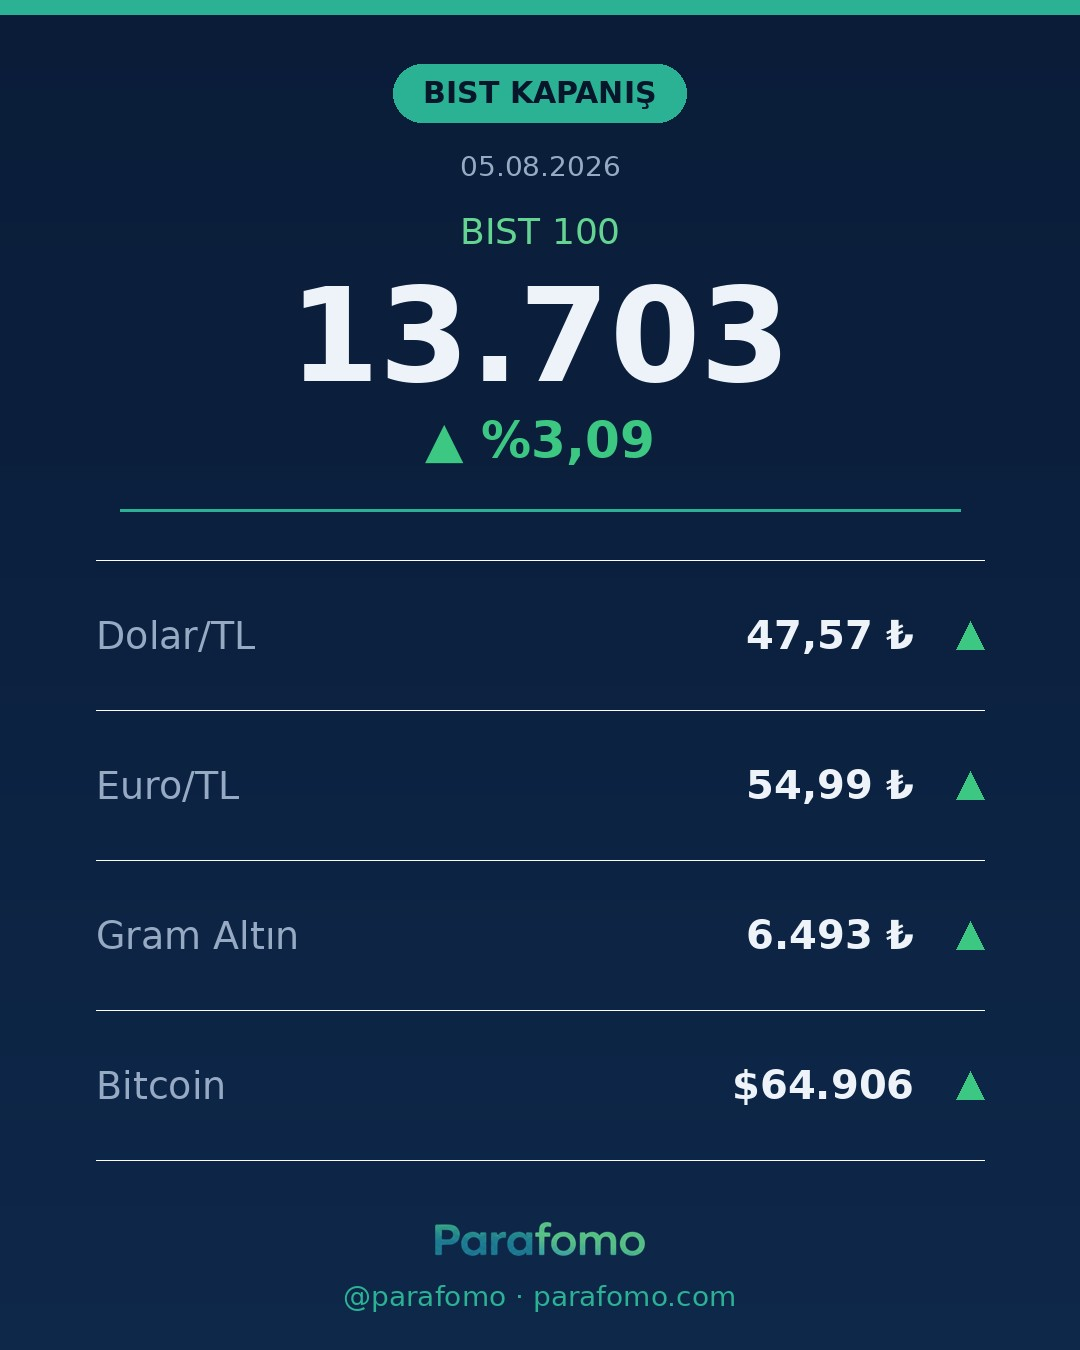
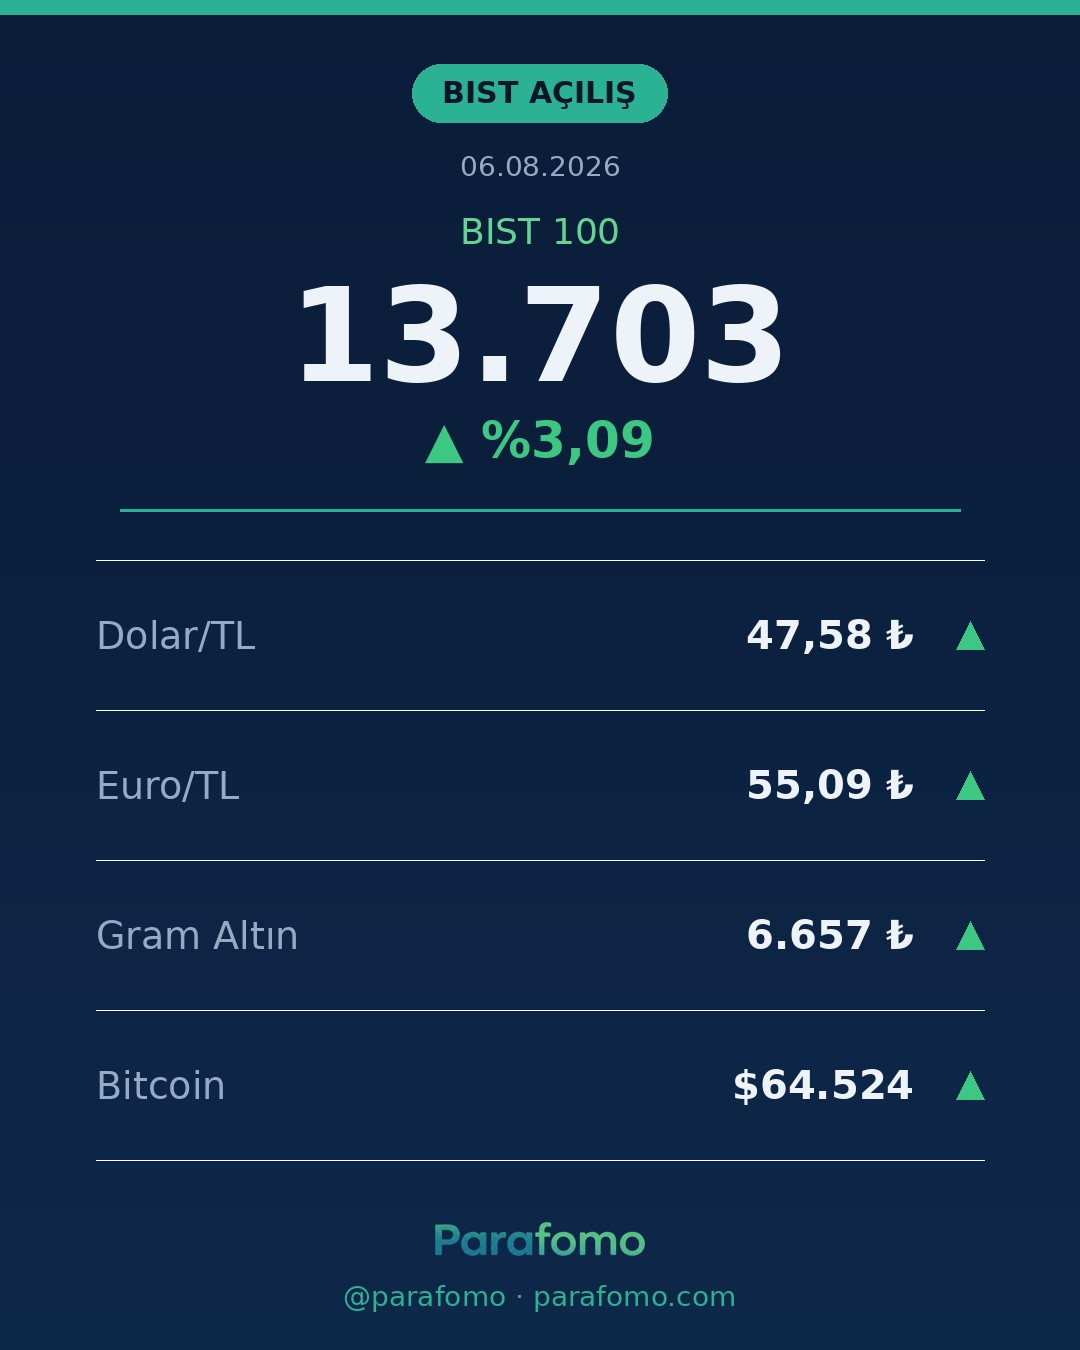
büyüme-ajanı 2026-08-06: Fed iç-link kümesi + count-up motoru + IG konu-hashtag + BIST kart Yahoo fallback
Web: fed-faiz-karari pillar'a fomc/faiz/tcmb/satellite'ten 'Fed faiz kararı' anchor iç-link + reciprocal (deney 2026-08-06-1; #1 GSC fırsatı poz 22).
YouTube: scripts/countup-overlay.py — backtest_return payoff için animasyonlu sayaç (test+QA ✓, canlıya bağlanacak).
IG: instagram-reel.py konuya-duyarlı hashtag (deney 2026-08-06-2).
Infra: bist-card.py Truncgil non-fatal + Yahoo FX/altın fallback (v3 bozuldu); share-story.sh git_push_retry.
npm run build ✓ (90 sayfa).

diff --git a/scripts/countup-overlay.py b/scripts/countup-overlay.py
@@ -1,0 +1,132 @@
+#!/usr/bin/env python3
+"""
+ParaFOMO — Animasyonlu sayı sayacı (count-up) overlay üreticisi.
+
+Neden: En yüksek skorlu Shorts formatımız `backtest_return` ("10.000 TL koysaydın
+bugün X TL olurdu"). Araştırma (2026): ease-out ile hızlanıp yavaşlayarak HEDEF
+sayıya "inen" animasyonlu sayaç, statik sayıya göre dikkat + hatırlamayı belirgin
+artırıyor ("motion earns the pause"). Vanguard'ın animasyonlu "paran büyüyor"
+zaman serisi → uzun-vade abonelikte +%32. Bu format tam da bu hareketle eşleşiyor.
+
+Ne yapar: start→end arası, Türkçe biçimli (6.657 gibi), ₺/%/x son ekli, marka
+sarısı (#FFE14D) Anton fontuyla, ŞEFFAF arka planlı bir PNG kare dizisi üretir.
+İsteğe bağlı alt etiket (ör. "5 yılda") ve alfa'lı .mov (ffmpeg overlay için).
+
+Kullanım:
+  python3 scripts/countup-overlay.py --start 10000 --end 21000 --suffix " TL" \
+      --label "5 YILDA" --dur 2.5 --out /tmp/countup
+
+Çıktı: <out>/frame_%04d.png (RGBA) + <out>.mov (prores 4444, alfa) varsa ffmpeg.
+Token harcamaz; ffmpeg/PIL. shorts-build-v4 payoff sahnesine overlay olarak takılır.
+"""
+import os
+import sys
+import shutil
+import argparse
+import subprocess
+from PIL import Image, ImageDraw, ImageFont
+
+ROOT = os.path.dirname(os.path.dirname(os.path.abspath(__file__)))
+ANTON = os.path.join(ROOT, "assets", "fonts", "Anton-Regular.ttf")
+OSWALD = os.path.join(ROOT, "assets", "fonts", "Oswald.ttf")
+
+W, H = 1080, 1920
+YELLOW = (255, 225, 77, 255)      # #FFE14D — marka aktif-vurgu sarısı
+WHITE = (245, 248, 252, 255)
+SHADOW = (6, 10, 14, 235)
+LABEL_C = (200, 214, 230, 255)
+
+
+def fmt_tr(n, decimals=0):
+    """1234567.8 -> '1.234.568' / '1.234.567,8' (TR binlik '.', ondalık ',')."""
+    s = f"{n:,.{decimals}f}"
+    return s.replace(",", "§").replace(".", ",").replace("§", ".")
+
+
+def ease_out_cubic(t):
+    return 1 - (1 - t) ** 3
+
+
+def font(path, size):
+    try:
+        return ImageFont.truetype(path, size)
+    except Exception:
+        return ImageFont.truetype("/usr/share/fonts/truetype/liberation/LiberationSans-Bold.ttf", size)
+
+
+def draw_centered(draw, cy, text, fnt, fill, cx=W // 2):
+    box = draw.textbbox((0, 0), text, font=fnt)
+    tw, th = box[2] - box[0], box[3] - box[1]
+    x, y = cx - tw / 2 - box[0], cy - th / 2 - box[1]
+    # yumuşak gölge (her B-roll üstünde okunur kalsın)
+    for dx, dy in ((0, 4), (4, 0), (3, 3), (-3, 3)):
+        draw.text((x + dx, y + dy), text, font=fnt, fill=SHADOW)
+    draw.text((x, y), text, font=fnt, fill=fill)
+    return tw
+
+
+def render(args):
+    outdir = args.out.rstrip("/")
+    if os.path.isdir(outdir):
+        shutil.rmtree(outdir)
+    os.makedirs(outdir, exist_ok=True)
+
+    fps = args.fps
+    n_frames = max(2, int(round(args.dur * fps)))
+    hold = int(round(args.hold * fps))          # son değerde bekleme kareleri
+    num_f = font(ANTON, args.size)
+    lab_f = font(OSWALD, max(40, args.size // 4))
+
+    span = args.end - args.start
+    cy = H // 2
+
+    for i in range(n_frames + hold):
+        t = min(1.0, i / max(1, n_frames - 1))
+        val = args.start + span * ease_out_cubic(t)
+        if i >= n_frames:
+            val = args.end
+        img = Image.new("RGBA", (W, H), (0, 0, 0, 0))
+        d = ImageDraw.Draw(img)
+        if args.label:
+            draw_centered(d, cy - args.size // 2 - 30, args.label.upper(), lab_f, LABEL_C)
+        txt = f"{args.prefix}{fmt_tr(val, args.decimals)}{args.suffix}"
+        # hedefe inince sarı vurgu, yolda beyaz — landing "payoff" hissi
+        col = YELLOW if (i >= n_frames - 1) else WHITE
+        draw_centered(d, cy + 20, txt, num_f, col)
+        img.save(f"{outdir}/frame_{i:04d}.png")
+
+    total = n_frames + hold
+    print(f"[countup] {total} kare üretildi → {outdir}/frame_%04d.png "
+          f"({args.start:g}→{args.end:g}{args.suffix}, {fps}fps, ease-out)")
+
+    # Alfa'lı .mov (ffmpeg varsa) — doğrudan overlay-video olarak da kullanılabilir.
+    if shutil.which("ffmpeg"):
+        mov = f"{outdir}.mov"
+        cmd = ["ffmpeg", "-y", "-framerate", str(fps), "-i", f"{outdir}/frame_%04d.png",
+               "-c:v", "prores_ks", "-profile:v", "4444", "-pix_fmt", "yuva444p10le", mov]
+        r = subprocess.run(cmd, capture_output=True, text=True)
+        if r.returncode == 0:
+            print(f"[countup] alfa mov → {mov}")
+        else:
+            print(f"[countup] mov atlandı: {r.stderr.strip().splitlines()[-1] if r.stderr else '?'}")
+    return outdir
+
+
+def main():
+    ap = argparse.ArgumentParser()
+    ap.add_argument("--start", type=float, required=True)
+    ap.add_argument("--end", type=float, required=True)
+    ap.add_argument("--dur", type=float, default=2.2, help="animasyon süresi (sn)")
+    ap.add_argument("--hold", type=float, default=0.6, help="son değerde bekleme (sn)")
+    ap.add_argument("--fps", type=int, default=30)
+    ap.add_argument("--suffix", default="")
+    ap.add_argument("--prefix", default="")
+    ap.add_argument("--decimals", type=int, default=0)
+    ap.add_argument("--label", default="")
+    ap.add_argument("--size", type=int, default=220)
+    ap.add_argument("--out", required=True, help="çıktı klasörü (frame_%04d.png)")
+    render(ap.parse_args())
+
+
+if __name__ == "__main__":
+    main()

diff --git a/scripts/instagram-reel.py b/scripts/instagram-reel.py
@@ -34,10 +34,69 @@ IG_ENV = os.path.expanduser("~/.config/parafomo/instagram.env")
 API = "https://graph.facebook.com/v21.0"
 REPO_RAW = "https://raw.githubusercontent.com/Junkiieee/parafomo/media"
 
-# Türkçe finans erişim etiketleri (IG en fazla 30; keşfet için geniş+niş karışık)
-HASHTAGS = ("#parafomo #finans #para #yatırım #borsa #ekonomi #altın #dolar "
-            "#kriptopara #bitcoin #tasarruf #bist100 #faiz #enflasyon #bes "
-            "#temettü #hisse #finansalözgürlük #paratüyoları #ekonomihaber")
+# Türkçe finans erişim etiketleri. Her gönderiye AYNI blok yerine KONUYA-DUYARLI
+# set: küçük hesap dev hashtag havuzunda sıralanamaz → videonun kendi niş
+# havuzunu hedefle. Ayrıca aynı bloğun tekrarı IG'de otomasyon/spam sinyali.
+CORE_TAGS = ["#parafomo", "#finans", "#para", "#yatırım", "#borsa", "#ekonomi"]
+DISCOVERY_TAGS = ["#paratüyoları", "#ekonomihaber", "#finansalözgürlük"]
+TOPIC_TAGS = {
+    "altın": ["#altın", "#gramaltın", "#altınyatırımı", "#çeyrekaltın"],
+    "dolar": ["#dolar", "#dolartl", "#döviz", "#kur"],
+    "euro": ["#euro", "#döviz", "#eurotl"],
+    "bitcoin": ["#bitcoin", "#kripto", "#kriptopara", "#btc"],
+    "kripto": ["#kripto", "#kriptopara", "#bitcoin"],
+    "ethereum": ["#ethereum", "#kripto", "#altcoin"],
+    "stablecoin": ["#stablecoin", "#kripto", "#usdt"],
+    "nft": ["#nft", "#kripto", "#dijitalvarlık"],
+    "fed": ["#fed", "#faiz", "#dolar", "#abdekonomisi"],
+    "faiz": ["#faiz", "#merkezbankası", "#mevduat"],
+    "tcmb": ["#tcmb", "#faiz", "#merkezbankası"],
+    "merkez banka": ["#merkezbankası", "#faiz", "#parapolitikası"],
+    "enflasyon": ["#enflasyon", "#tüfe", "#zam"],
+    "tüfe": ["#enflasyon", "#tüfe", "#alımgücü"],
+    "tüik": ["#enflasyon", "#tüik", "#tüfe"],
+    "bist": ["#bist100", "#borsaistanbul", "#hisse"],
+    "borsa": ["#borsa", "#bist100", "#hissesenedi"],
+    "hisse": ["#hisse", "#hissesenedi", "#borsa"],
+    "temettü": ["#temettü", "#temettühisseleri", "#pasifgelir"],
+    "etf": ["#etf", "#endeksfonu", "#pasifyatırım"],
+    "endeks fon": ["#endeksfonu", "#etf", "#pasifyatırım"],
+    "fon": ["#yatırımfonu", "#tefas", "#fon"],
+    "eurobond": ["#eurobond", "#dolarfaizi", "#sabitgetiri"],
+    "tahvil": ["#tahvil", "#hazinebonosu", "#sabitgetiri"],
+    "repo": ["#repo", "#kısavade", "#faiz"],
+    "mevduat": ["#mevduat", "#vadelimevduat", "#tasarruf"],
+    "tasarruf": ["#tasarruf", "#parabiriktirme", "#bütçe"],
+    "bütçe": ["#bütçe", "#parayönetimi", "#tasarruf"],
+    "emeklilik": ["#emeklilik", "#bes", "#uzunvade"],
+    "bes": ["#bes", "#bireyselemeklilik", "#emeklilik"],
+    "kredi": ["#kredi", "#borç", "#kredikartı"],
+    "borç": ["#borç", "#borçtankurtulma", "#kredikartı"],
+    "nfp": ["#nfp", "#abdekonomisi", "#ekonomiveri"],
+    "issizlik": ["#işsizlik", "#abdekonomisi", "#nfp"],
+    "portföy": ["#portföy", "#varlıkdağılımı", "#yatırımstratejisi"],
+    "pasif gelir": ["#pasifgelir", "#finansalözgürlük"],
+    "finansal özgür": ["#finansalözgürlük", "#fire", "#pasifgelir"],
+    "bileşik faiz": ["#bileşikfaiz", "#uzunvadeyatırım"],
+    "halka arz": ["#halkaarz", "#ipo", "#borsa"],
+    "döviz": ["#döviz", "#dolar", "#kur"],
+    "konut": ["#konut", "#gayrimenkul", "#emlak"],
+}
+
+
+def build_hashtags(slug="", title="", desc=""):
+    """Videoya özgü niş + marka + keşfet karışımı. Küçük hesap için winnable havuzlar."""
+    text = f"{slug} {title} {desc}".lower().replace("-", " ")
+    tags = list(CORE_TAGS)
+    for kw, tg in TOPIC_TAGS.items():
+        if kw in text:
+            for t in tg:
+                if t not in tags:
+                    tags.append(t)
+    for t in DISCOVERY_TAGS:
+        if t not in tags:
+            tags.append(t)
+    return " ".join(tags[:24])
 
 
 def load_env():
@@ -104,7 +163,7 @@ def build_caption(meta, slug):
            f"📌 Unutmamak için KAYDET · paylaş\n"
            f"🔔 Günlük altın · dolar · borsa · faiz → TAKİP ET @parafomo\n"
            f"📲 Tam rehber (ücretsiz): {site_link(slug)}")
-    cap = f"{hook}\n\n{body}{cta}\n\n{HASHTAGS}"
+    cap = f"{hook}\n\n{body}{cta}\n\n{build_hashtags(slug, title, desc)}"
     return cap[:2100]  # IG caption sınırı 2200
 
 

diff --git a/scripts/bist-card.py b/scripts/bist-card.py
@@ -70,9 +70,28 @@ def _get_json(url, tries=3):
     raise last
 
 
+def _yahoo(symbol):
+    """Yahoo chart → (fiyat, değişim%). None-safe; ağ/JSON hatası → (None, None)."""
+    try:
+        url = f"https://query1.finance.yahoo.com/v8/finance/chart/{symbol}?interval=1d&range=5d"
+        y = json.loads(urllib.request.urlopen(urllib.request.Request(url, headers={"User-Agent": "Mozilla/5.0"}), timeout=20).read())
+        meta = y["chart"]["result"][0]["meta"]
+        price = meta.get("regularMarketPrice")
+        prev = meta.get("chartPreviousClose") or meta.get("previousClose")
+        chg = ((price - prev) / prev * 100) if (price and prev) else None
+        return (price, chg)
+    except Exception:
+        return (None, None)
+
+
 def fetch():
-    # Truncgil v3 (v4 fiyatları boşalttı) — USD/EUR/gram-altın. Arada truncated → retry.
-    tj = _get_json(TG)
+    # Truncgil v3 (v4 fiyatları boşalttı) — USD/EUR/gram-altın. Arada truncated JSON
+    # döndürüyor (retry sonrası bile) → FATAL DEĞİL: boş dict'e düş, FX'i Yahoo'dan doldur.
+    try:
+        tj = _get_json(TG)
+    except Exception as e:
+        print(f"    [kart] Truncgil alınamadı ({type(e).__name__}); Yahoo FX'e düşülüyor", flush=True)
+        tj = {}
 
     def pick(k, p):
         return _num((tj.get(k) or {}).get(p))
@@ -82,16 +101,19 @@ def fetch():
         "eur": (pick("EUR", "Selling"), pick("EUR", "Change")),
         "gold": (pick("gram-altin", "Selling"), pick("gram-altin", "Change")),
     }
+    # Truncgil eksik/boşsa USD & EUR'yu Yahoo FX ile doldur.
+    if data["usd"][0] is None:
+        data["usd"] = _yahoo("USDTRY=X")
+    if data["eur"][0] is None:
+        data["eur"] = _yahoo("EURTRY=X")
+    # Gram altın Truncgil'de yoksa Yahoo'dan türet: ons altın (GC=F, USD) / 31.1035 * USDTRY.
+    if data["gold"][0] is None:
+        ons_usd, ons_chg = _yahoo("GC=F")
+        usdtry = data["usd"][0]
+        if ons_usd and usdtry:
+            data["gold"] = (ons_usd / 31.1035 * usdtry, ons_chg)
     # BIST 100 (XU100) — Truncgil'de YOK → Yahoo Finance.
-    try:
-        y = json.loads(urllib.request.urlopen(urllib.request.Request(YF, headers={"User-Agent": "Mozilla/5.0"}), timeout=20).read())
-        meta = y["chart"]["result"][0]["meta"]
-        price = meta.get("regularMarketPrice")
-        prev = meta.get("chartPreviousClose") or meta.get("previousClose")
-        chg = ((price - prev) / prev * 100) if (price and prev) else None
-        data["bist"] = (price, chg)
-    except Exception:
-        data["bist"] = (None, None)
+    data["bist"] = _yahoo("XU100.IS")
     # Bitcoin (CoinGecko)
     try:
         d = json.loads(urllib.request.urlopen(urllib.request.Request(CG, headers={"User-Agent": "Mozilla/5.0"}), timeout=20).read())

diff --git a/agent/memory/learnings.md b/agent/memory/learnings.md
@@ -9,3 +9,5 @@ Yeni ders: `python3 agent/exp.py learn --channel <k> --text "..."` veya deney ka
 - [2026-08-04][web] "Ekonomik takvim" sayfası (veri vardı, sayfa yoktu) hızlı kazanım oldu → veriyle beslenen, kendi başına trafik çeken HEDEF SAYFALAR yüksek kaldıraç.
 - [2026-08-04][web] GSC'de yüksek gösterim + 0 tıklama + pozisyon 10-30 olan sorgu = en isabetli SEO fırsatı (hedefli sayfa/başlık/iç-link ile ilk sayfaya çek).
 - [2026-08-04][infra] Dış veri kaynakları sessizce bozulabilir (Truncgil v4 fiyatları boşalttı → v3 + Yahoo). Kartlarda/verilerde boşluk görürsen kaynağı doğrula.
+- [2026-08-06][infra] Truncgil v3 today.json artık DA bozuk (truncated JSON, retry sonrası bile crash ediyordu). bist-card.py FX/altını Yahoo'ya fallback yaptı (USDTRY=X, EURTRY=X, GC=F/31.1035*usdtry); Truncgil non-fatal. Ders: tek dış kaynağa fatal bağlanma, her fetch degrade edebilmeli.
+- [2026-08-06][web] İç-link kümesi taktiği: head-term için pillar+satellite ayır, satelliti pillar'a head-anchor'la bağla (cannibalization çözümü), en yüksek learning-skorlu ilgili sayfadan pillar'a link ver (PageRank yoğunlaştırma). Fed kümesinde uygulandı (deney 2026-08-06-1).

diff --git a/src/content/blog/fed-faiz-karari-ne-olur-beklentiler.md b/src/content/blog/fed-faiz-karari-ne-olur-beklentiler.md
@@ -36,7 +36,7 @@ shorts_visuals:
   - "concept|turkish lira dollar exchange rate screen"
 ---
 
-Fed faiz kararının ne olacağını bilmek pek çok yatırımcının hayaline girer. Dolar mı güçlenecek, TL üzerinde baskı mı artacak, borsalar ne tepki verecek? Bunları tam kesinlikle öngörmek mümkün değil; ama piyasanın *beklentisini* okumak ve bu beklentinin neden değiştiğini anlamak hem mümkün hem son derece işe yarar.
+[Fed faiz kararının](/blog/fed-faiz-karari-nedir-etkisi) ne olacağını bilmek pek çok yatırımcının hayaline girer. Dolar mı güçlenecek, TL üzerinde baskı mı artacak, borsalar ne tepki verecek? Bunları tam kesinlikle öngörmek mümkün değil; ama piyasanın *beklentisini* okumak ve bu beklentinin neden değiştiğini anlamak hem mümkün hem son derece işe yarar.
 
 Bu rehberde Fed kararını önceden ölçmenin somut araçlarını ve kritik ekonomik verileri adım adım inceliyoruz.
 

diff --git a/src/content/blog/tcmb-faiz-karari-nasil-etkiler.md b/src/content/blog/tcmb-faiz-karari-nasil-etkiler.md
@@ -99,7 +99,7 @@ TCMB faiz kararının döviz kuruna etkisi teorik olarak belirgin, uygulamada ç
 - Yabancı sermaye çıkışı yaşanabilir.
 - [Döviz kurunun belirlenme mekanizması](/blog/doviz-kuru-nasil-belirlenir) gereği arz-talep dengesi bozulur.
 
-**Kritik uyarı:** Türkiye'de döviz kuru salt faize değil; cari açık, siyasi beklentiler ve küresel risk iştahına da bağlıdır. Teorik faiz-kur ilişkisi güven ortamı bozuksa beklendiği gibi çalışmayabilir.
+**Kritik uyarı:** Türkiye'de döviz kuru salt faize değil; cari açık, siyasi beklentiler ve küresel risk iştahına da bağlıdır. Özellikle [Fed faiz kararı](/blog/fed-faiz-karari-nedir-etkisi) ve ABD'deki faiz ortamı, TL dahil gelişen ülke kurlarını doğrudan etkiler. Teorik faiz-kur ilişkisi güven ortamı bozuksa beklendiği gibi çalışmayabilir.
 
 ## Borsa (BIST) Üzerindeki Etkisi
 

diff --git a/src/content/blog/fed-faiz-karari-nedir-etkisi.md b/src/content/blog/fed-faiz-karari-nedir-etkisi.md
@@ -60,7 +60,7 @@ FOMC kararını vermek için onlarca ekonomik göstergeyi inceler. En çok ağı
 | **Core CPI** | Gıda ve enerji dışı enflasyon | Düşmezse Fed temkinli kalır |
 | **Tüketici Güveni** | Harcama iştahı | Düşükse Fed gevşemek ister |
 
-Fed bu verilerin bütününe bakarak kısa vadeli ekonomik dengeyi kurmaya çalışır: ne aşırı sıcak (enflasyon), ne aşırı soğuk (durgunluk).
+Fed bu verilerin bütününe bakarak kısa vadeli ekonomik dengeyi kurmaya çalışır: ne aşırı sıcak (enflasyon), ne aşırı soğuk (durgunluk). Piyasanın bir sonraki toplantıdan ne beklediğini (CME FedWatch olasılıkları, dot plot) okumak için [Fed faiz kararı ne olur? beklenti rehberimize](/blog/fed-faiz-karari-ne-olur-beklentiler) göz atabilirsin.
 
 ## Fed Faiz Kararı Neyi Etkiler?
 

diff --git a/src/content/blog/faiz-nedir-ekonomiyi-nasil-etkiler.md b/src/content/blog/faiz-nedir-ekonomiyi-nasil-etkiler.md
@@ -105,7 +105,7 @@ Türkiye finansal olarak küresel piyasalara entegre. ABD Merkez Bankası (Fed) 
 2. Küresel risk iştahı azalır → yabancı sermaye Türkiye gibi ülkelerden çekilir.
 3. Dövizle borçlu Türk şirketlerinin yükü artar.
 
-Fed kararlarını anlamak için [FOMC toplantı tutanakları rehberine](/blog/fomc-toplanti-tutanaklari-nedir) göz atabilirsin.
+ABD tarafında [Fed faiz kararının nasıl alındığını](/blog/fed-faiz-karari-nedir-etkisi) ve [FOMC toplantı tutanakları rehberini](/blog/fomc-toplanti-tutanaklari-nedir) inceleyebilirsin.
 
 ## Faiz Artışı mı, İndirimi mi? Karşılaştırma Tablosu
 

diff --git a/src/content/blog/fomc-toplanti-tutanaklari-nedir.md b/src/content/blog/fomc-toplanti-tutanaklari-nedir.md
@@ -66,7 +66,7 @@ Analistlerin tutanaklarda aradığı 5 sinyal:
 
 ## FOMC Kararları TL ve BIST'i Nasıl Etkiler?
 
-Türkiye, Fed kararlarına doğrudan maruz kalan gelişmekte olan bir ekonomidir. Aktarım mekanizması şöyle işler:
+Türkiye, [Fed faiz kararlarına](/blog/fed-faiz-karari-nedir-etkisi) doğrudan maruz kalan gelişmekte olan bir ekonomidir. Aktarım mekanizması şöyle işler:
 
 **Fed şahin mesaj verirse (faiz artış/sıkı kalma sinyali):**
 - Dolar yatırımı daha cazip hale gelir

diff --git a/docs/dashboard.md b/docs/dashboard.md
@@ -1,6 +1,6 @@
 # ParaFOMO — Dürüst Ölçüm Panosu
 
-> Üretim: 2026-08-05 · `scripts/dashboard.py` · soru: *sistem işe yarıyor mu?*
+> Üretim: 2026-08-06 · `scripts/dashboard.py` · soru: *sistem işe yarıyor mu?*
 
 ## 1) Organik trafik trendi (GA4 — son 8 hafta)
 
